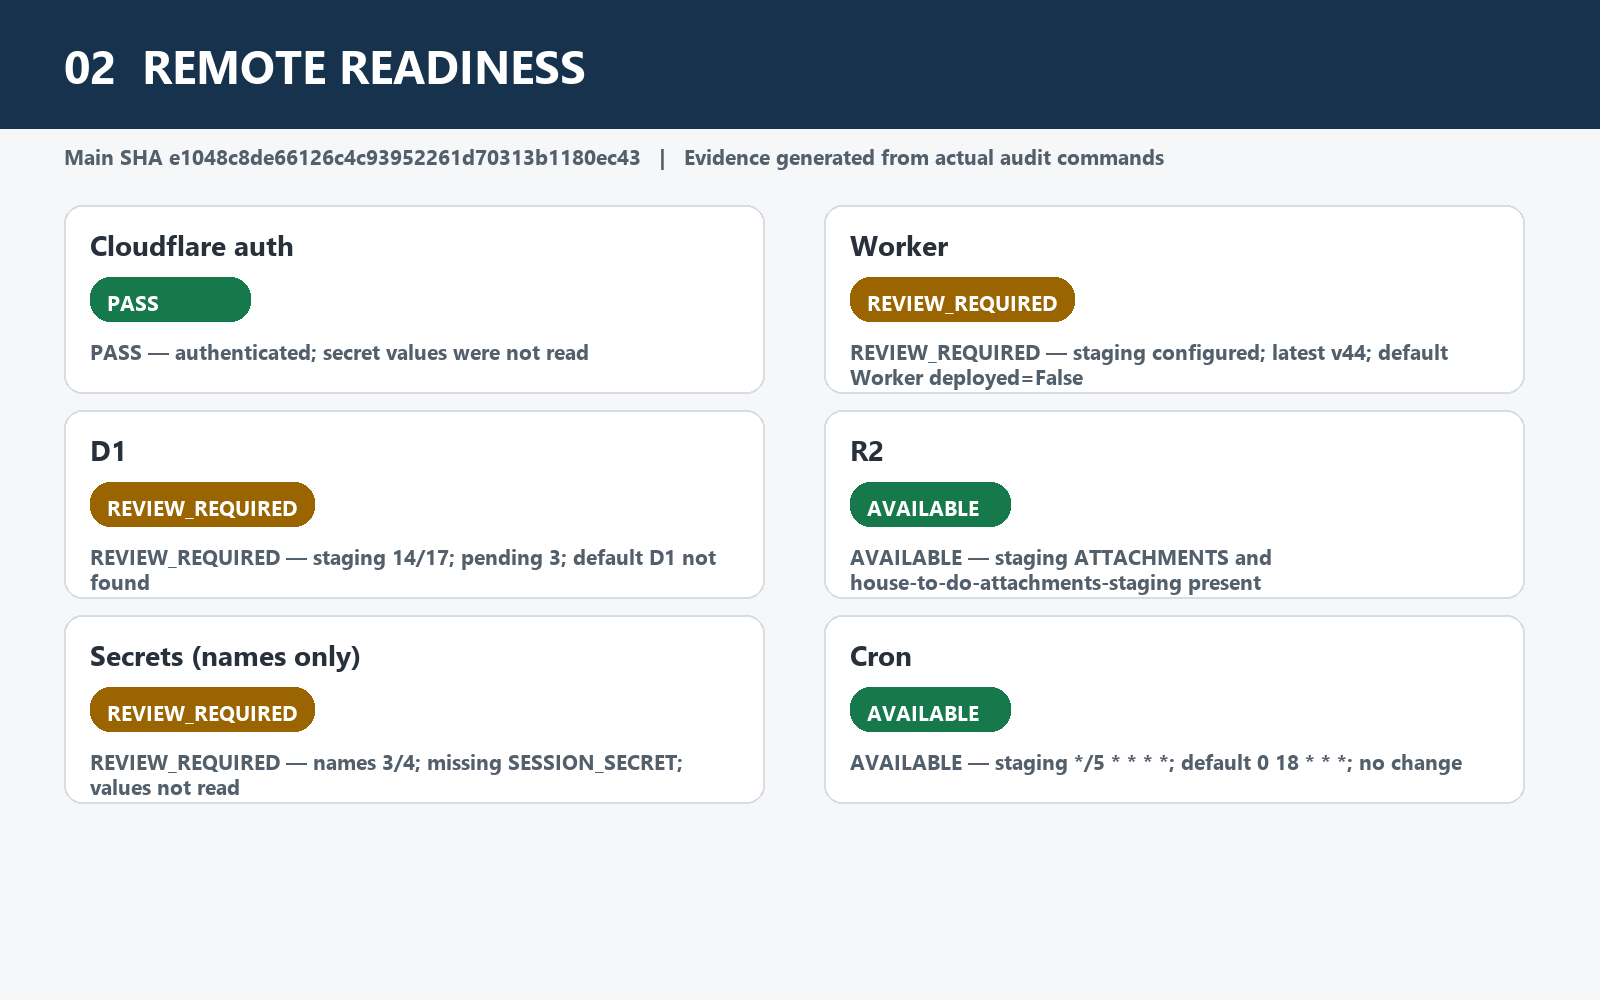
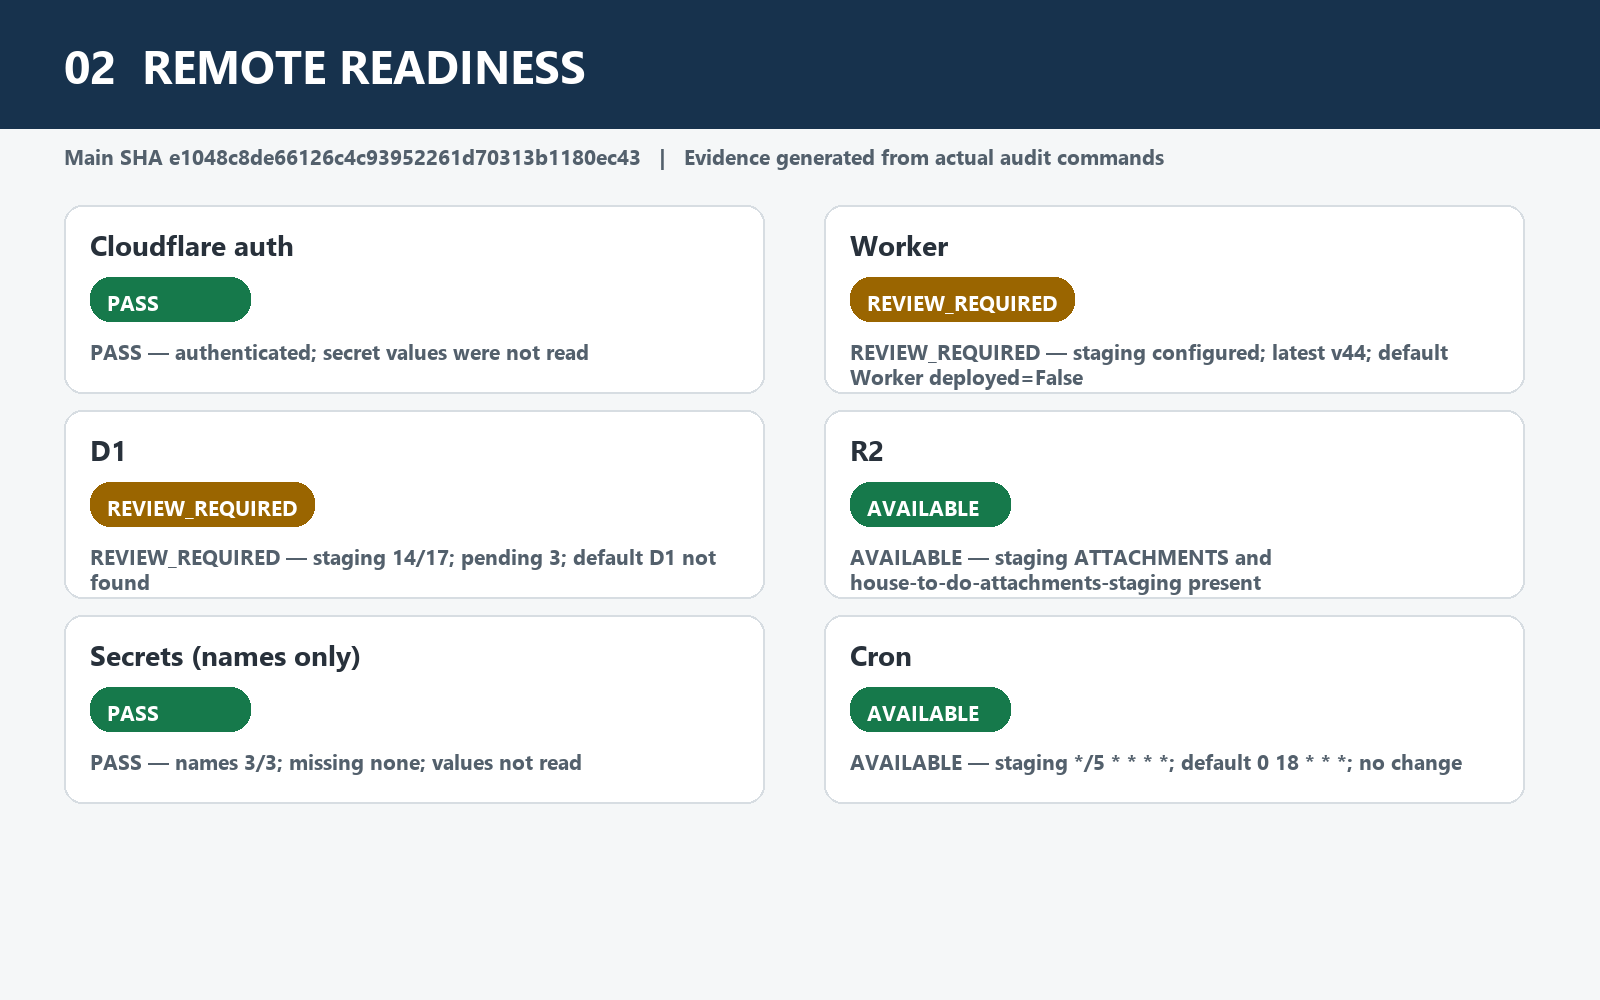
fix: align release readiness secrets with runtime

Changed region(s): [[0.0312, 0.682, 0.4375, 0.806]]

diff --git a/scripts/render-release-readiness-boards.py b/scripts/render-release-readiness-boards.py
@@ -122,7 +122,7 @@ def board_remote(readiness):
         "workerState": f"{remote['workerState'].split(' — ', 1)[0]} — staging configured; latest v{worker_details['latestVersionNumber']}; default Worker deployed={details['environments']['productionWorkerDeployed']}",
         "d1MigrationState": f"{remote['d1MigrationState'].split(' — ', 1)[0]} — staging {d1_details['remoteAppliedCount']}/{d1_details['localMigrationCount']}; pending {len(d1_details['missingMigrations'])}; default D1 not found",
         "r2Binding": f"{remote['r2Binding'].split(' — ', 1)[0]} — staging ATTACHMENTS and {details['r2']['configuredStagingBucket']} present",
-        "requiredSecrets": f"{remote['requiredSecrets'].split(' — ', 1)[0]} — names {len(secret_details['stagingPresent'])}/{len(secret_details['required'])}; missing {', '.join(secret_details['stagingMissing'])}; values not read",
+        "requiredSecrets": f"{remote['requiredSecrets'].split(' — ', 1)[0]} — names {len(secret_details['stagingPresent'])}/{len(secret_details['required'])}; missing {', '.join(secret_details['stagingMissing']) or 'none'}; values not read",
         "cron": f"{remote['cron'].split(' — ', 1)[0]} — staging {', '.join(details['cron']['stagingConfigured'])}; default {', '.join(details['cron']['defaultConfigured'])}; no change",
     }
     fields = [

diff --git a/docs/evidence/release-readiness/PR_BODY.md b/docs/evidence/release-readiness/PR_BODY.md
@@ -56,7 +56,7 @@ The two-user contract covered owner task creation, member visibility/completion,
 
 ## Secrets / Cron / R2
 
-- Required secret names were checked only by name. Staging has 3/4; `SESSION_SECRET` is missing. Secret values were not read or stored.
+- Required runtime secret names: 3/3 present. Secret values were not read or stored.
 - Staging Cron exists as configured. No Cron change was made.
 - Staging R2 binding/bucket exists. No object list, upload, or delete operation was performed.
 
@@ -68,7 +68,7 @@ The two-user contract covered owner task creation, member visibility/completion,
 
 `REMOTE_MIGRATION_REVIEW_REQUIRED`
 
-The local application gate is green, but the remote environment is not ready to be treated as a production release target: the configured default Worker/D1 are absent, staging is three migrations behind, and `SESSION_SECRET` is missing from staging.
+The local application gate is green, but the remote environment is not ready to be treated as a production release target: staging D1 is 14/17 with migrations 0015–0017 pending, and the configured default production Worker/D1 are not provisioned.
 
 ## Recommended next action
 

diff --git a/docs/RELEASE_MANUAL_CHECKLIST.md b/docs/RELEASE_MANUAL_CHECKLIST.md
@@ -60,7 +60,7 @@ This checklist is for a human on a real iPhone. Codex cannot operate the device,
 - [ ] `NOT RUN` — Verify morning and evening schedule settings.
 - [ ] `NOT RUN` — Receive a push notification and confirm the tap URL opens the intended screen.
 
-Push validation requires an authenticated, configured staging or production environment with the required VAPID secrets and an active Worker Cron. It must not be inferred from local tests or this checklist. The current release-readiness audit found staging but also found pending remote migrations and a missing `SESSION_SECRET`; no Push validation is authorized by this checklist.
+Push validation requires an authenticated, configured staging or production environment with the required VAPID secrets and an active Worker Cron. It must not be inferred from local tests or this checklist. The current release-readiness audit found staging with pending remote migrations; no Push validation is authorized by this checklist.
 
 ## Human sign-off
 
